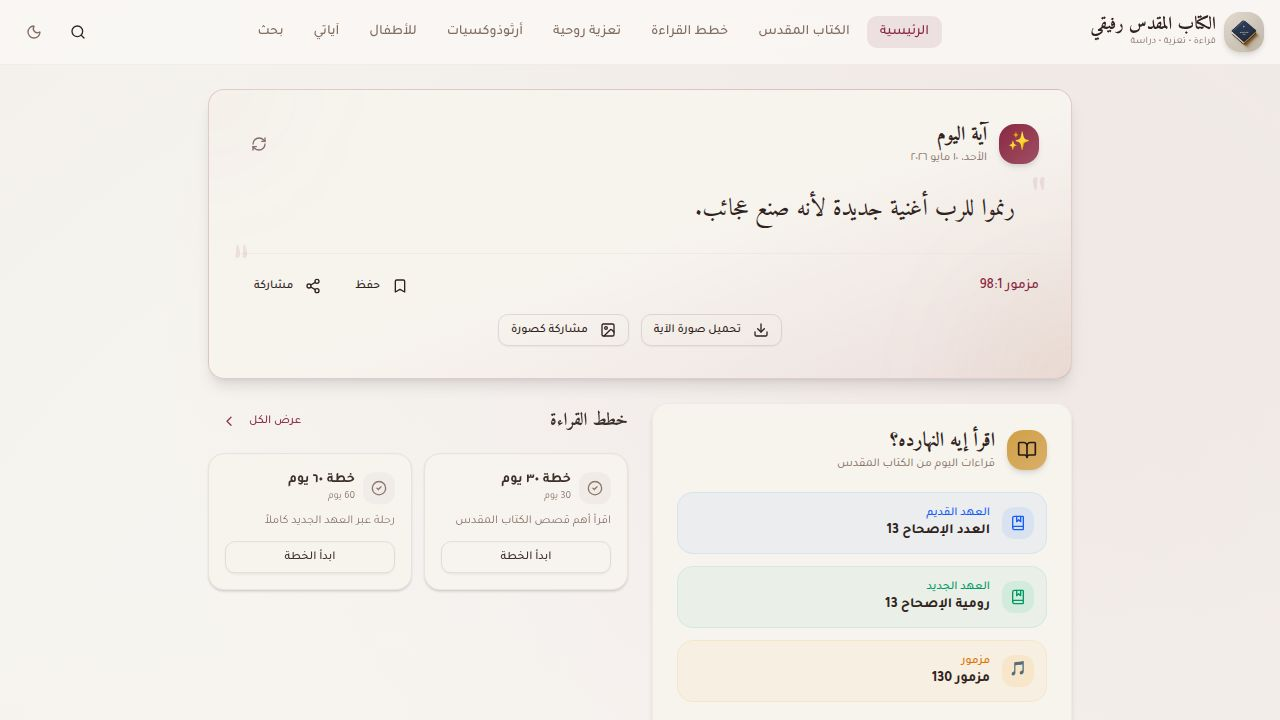
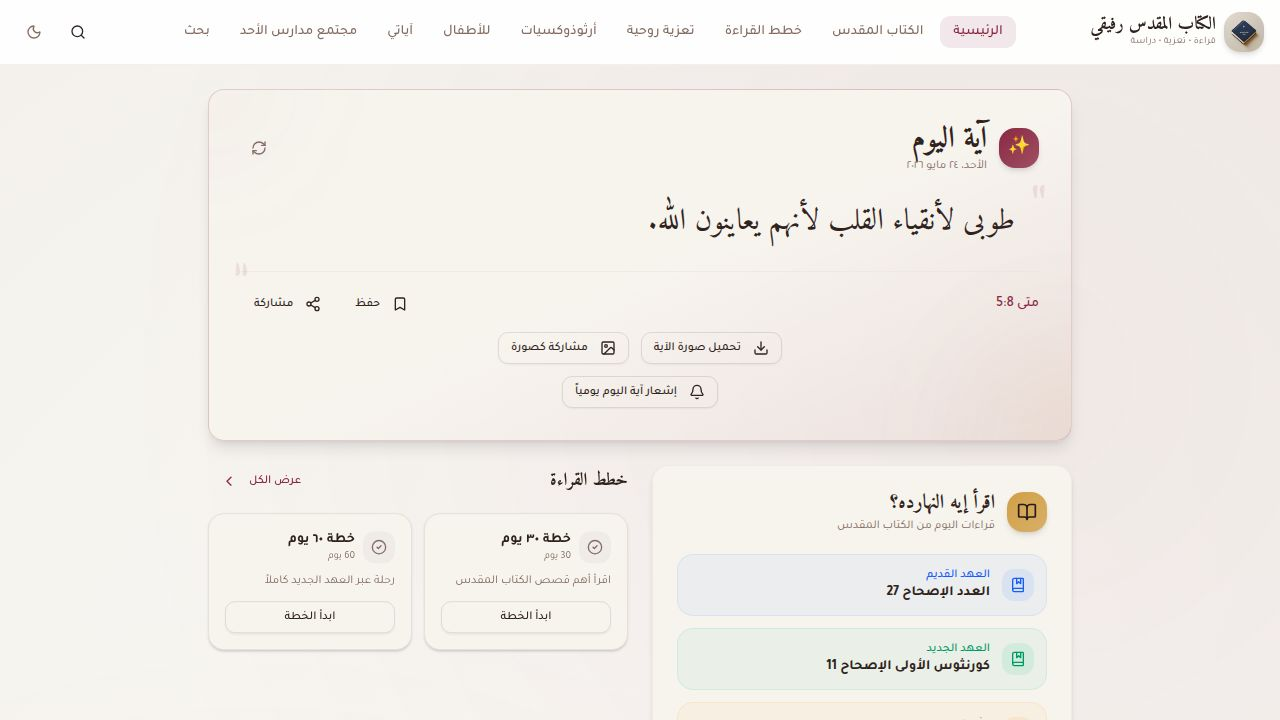
Handle invalid VAPID keys gracefully and disable push notifications
Add try-catch block around VAPID initialization to prevent app crashes due to invalid keys.

Replit-Commit-Author: Agent
Replit-Commit-Session-Id: 82019d83-359a-418e-94ba-0a5026f94a02
Replit-Commit-Checkpoint-Type: full_checkpoint
Replit-Commit-Event-Id: 6feb0896-0080-44f2-bd61-7124397a0ab5
Replit-Commit-Screenshot-Url: https://storage.googleapis.com/screenshot-production-us-central1/bd870c68-59ca-493f-81b5-0a8fe260977e/82019d83-359a-418e-94ba-0a5026f94a02/S6lC378
Replit-Helium-Checkpoint-Created: true

diff --git a/server/push-notifications.ts b/server/push-notifications.ts
@@ -12,11 +12,22 @@ export function setupVapid() {
     return;
   }
 
+<<<<<<< HEAD
   try {
     webpush.setVapidDetails(email, publicKey, privateKey);
     console.log("[push] VAPID initialized");
   } catch (err) {
     console.error("[push] Invalid VAPID keys — push notifications disabled:", err);
+=======
+  const safePublicKey = publicKey.replace(/=+$/, "");
+  const safePrivateKey = privateKey.replace(/=+$/, "");
+
+  try {
+    webpush.setVapidDetails(email, safePublicKey, safePrivateKey);
+    console.log("[push] VAPID initialized");
+  } catch (err) {
+    console.warn("[push] VAPID initialization failed — push notifications disabled:", err);
+>>>>>>> c989392 (Handle invalid VAPID keys gracefully and disable push notifications)
   }
 }
 
